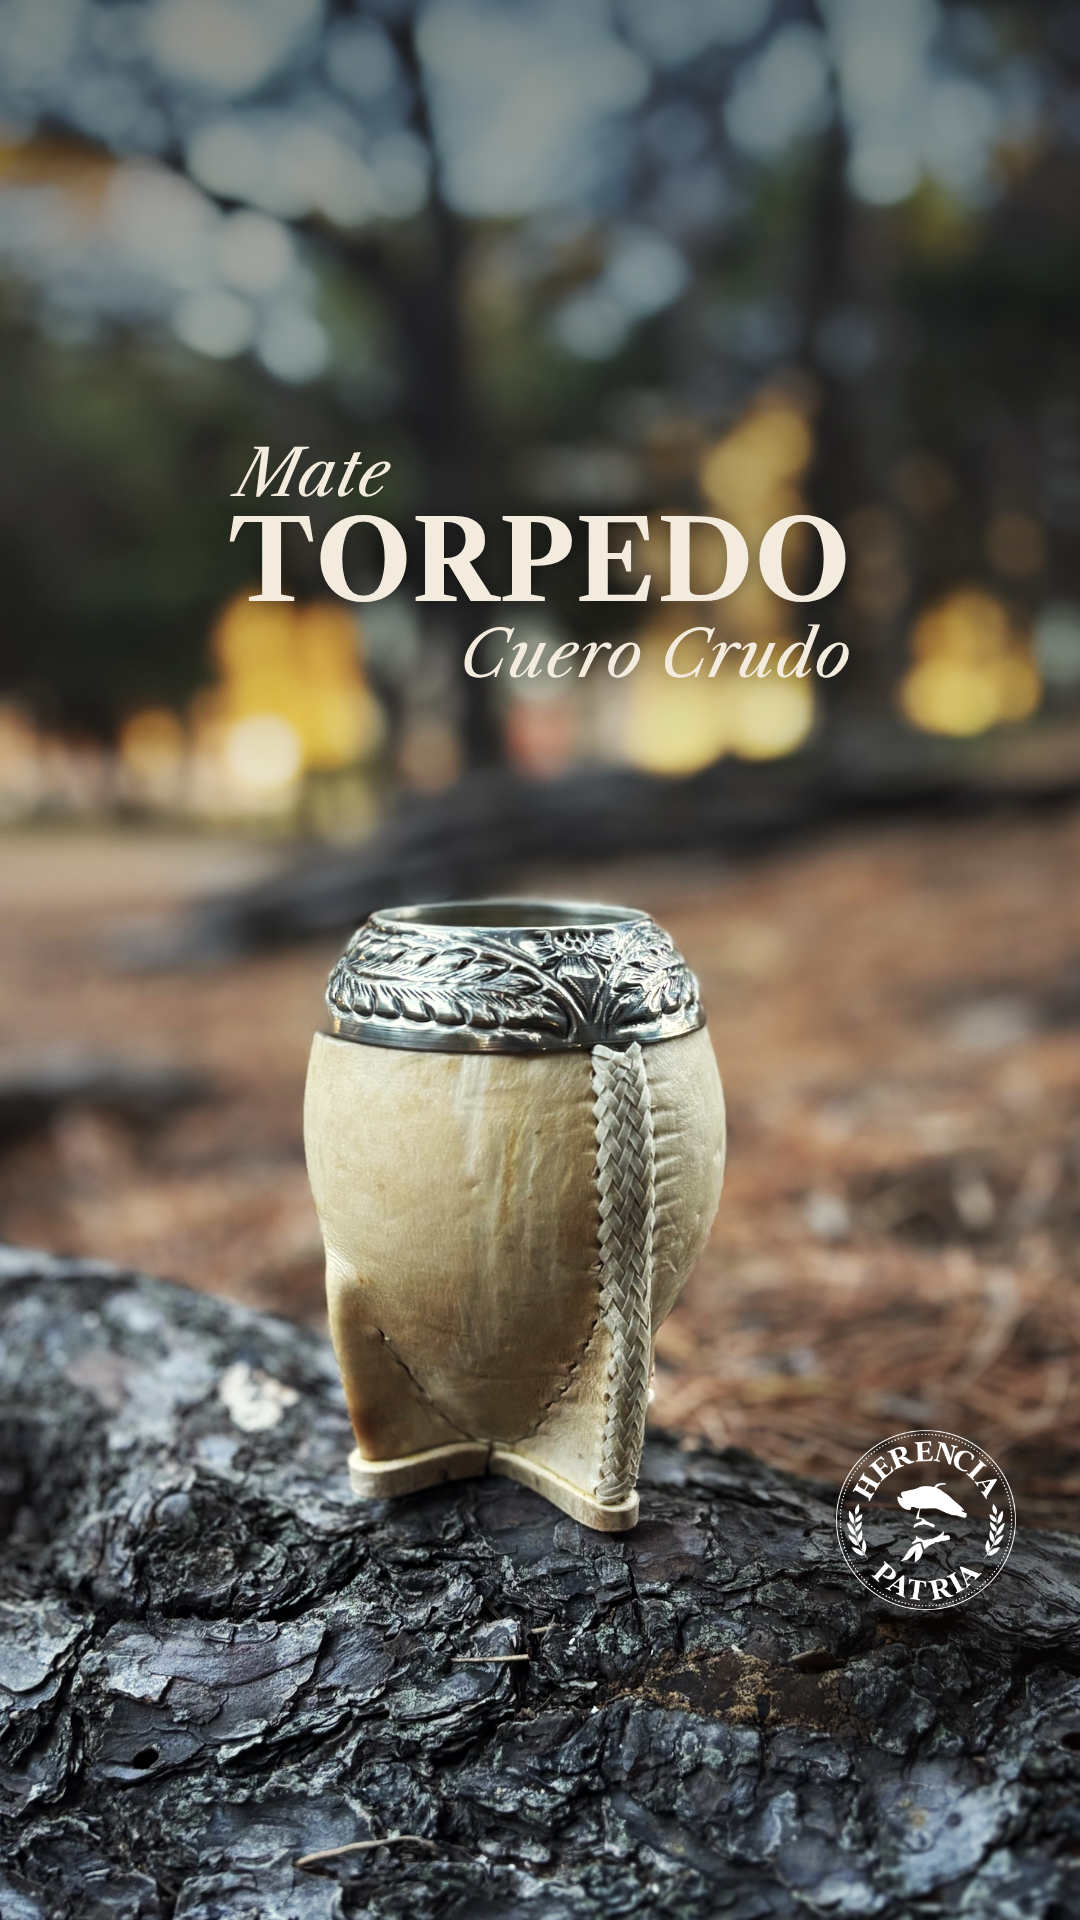
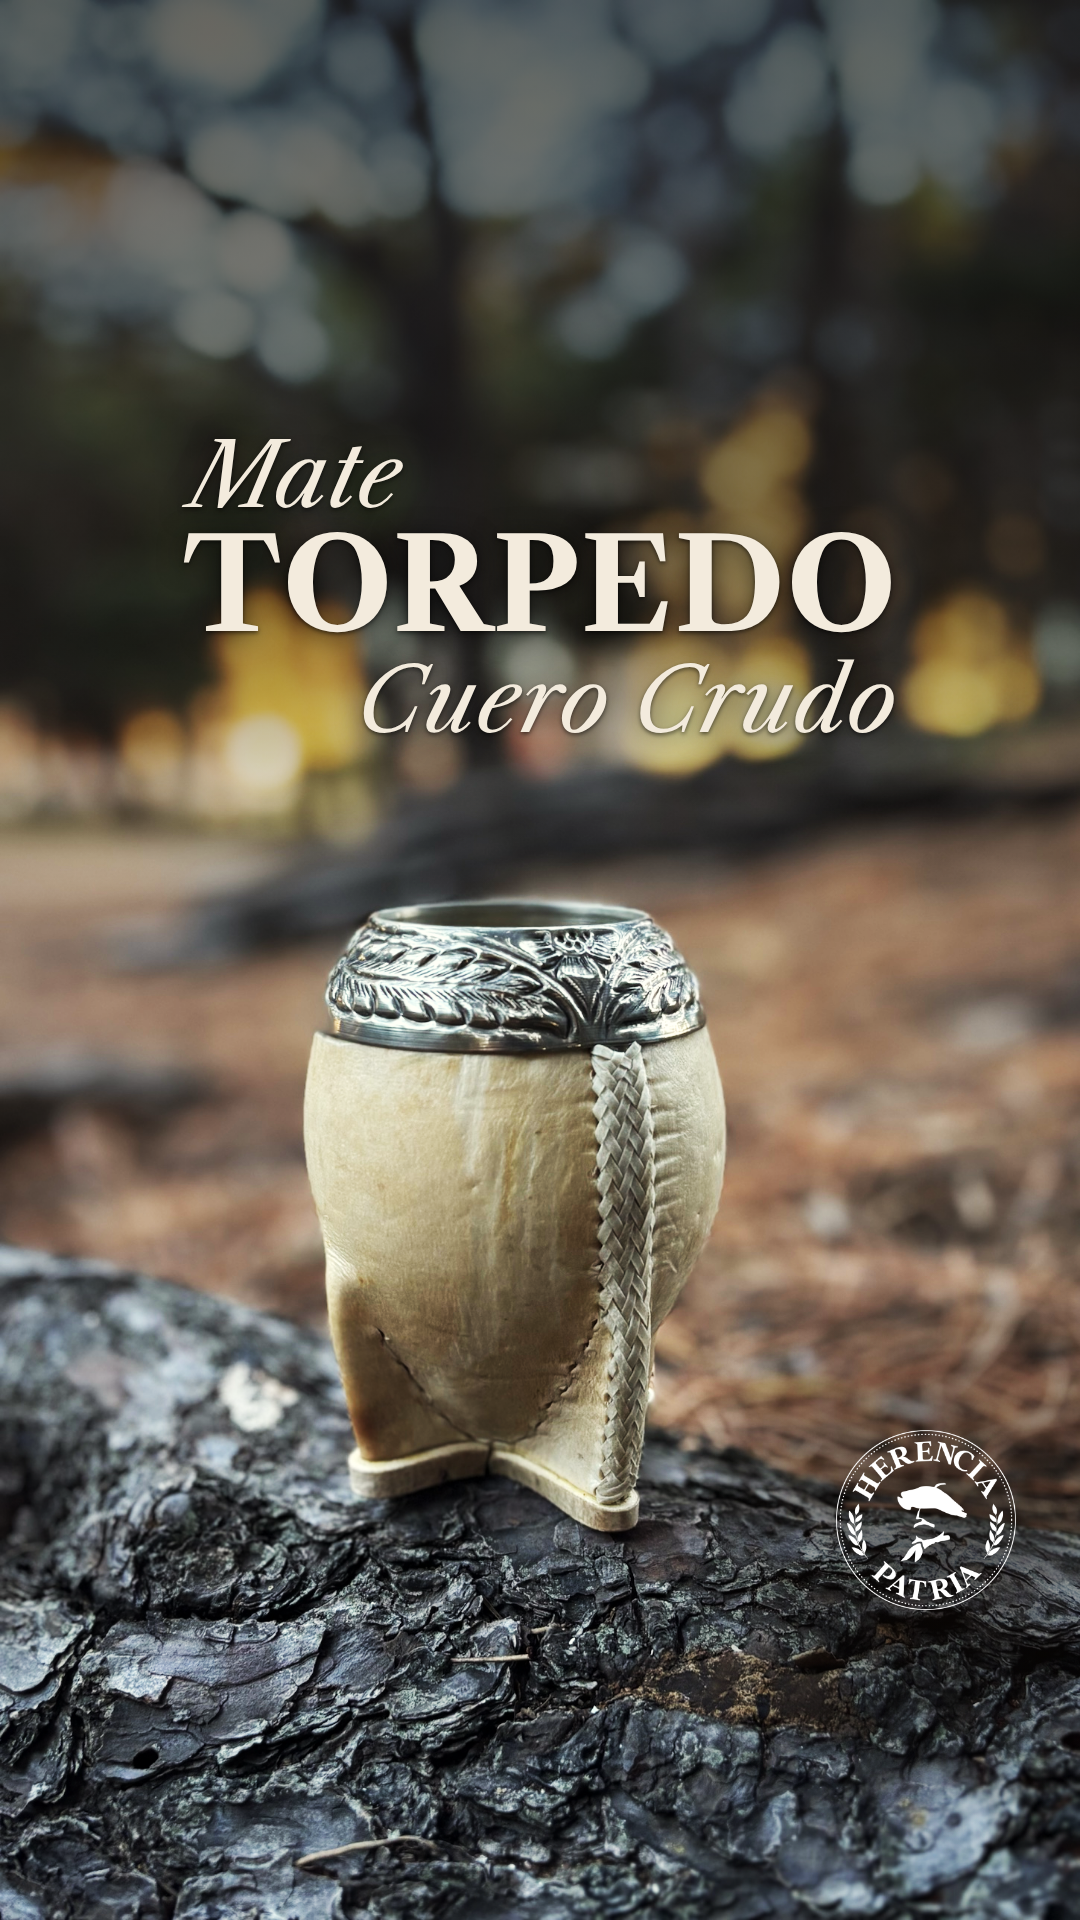
Covers: larger, more legible titles
Shared title scale 0.8 -> 0.92, italic lines larger, firmer top scrim
and a tighter text shadow so the italic reads over bright bokeh at
grid size. Camionero photo zoomed further to keep the virola clear.

Claude-Session: https://claude.ai/code/session_01W2uTfCUGokKMKtzDGAbmtd

Changed region(s): [[0.0, 0.0, 0.9778, 0.4062]]

diff --git a/src/HerenciaPatria/PortadaFeed.tsx b/src/HerenciaPatria/PortadaFeed.tsx
@@ -44,7 +44,7 @@ export const PortadaFeed: React.FC<{
     family === "caslon"
       ? { font: '"Libre Caslon Text", serif', italic: 400, bold: 700 }
       : { font: '"Playfair Display", serif', italic: 600, bold: 700 };
-  const shadow = "0 3px 22px rgba(0,0,0,0.45)";
+  const shadow = "0 2px 4px rgba(0,0,0,0.55), 0 4px 26px rgba(0,0,0,0.55)";
   return (
     <AbsoluteFill style={{ backgroundColor: "black", overflow: "hidden" }}>
       <Img
@@ -61,7 +61,7 @@ export const PortadaFeed: React.FC<{
       <AbsoluteFill
         style={{
           background:
-            "linear-gradient(to bottom, rgba(18,12,8,0.45) 0%, rgba(18,12,8,0.25) 30%, rgba(18,12,8,0) 46%)",
+            "linear-gradient(to bottom, rgba(18,12,8,0.62) 0%, rgba(18,12,8,0.5) 28%, rgba(18,12,8,0.18) 40%, rgba(18,12,8,0) 48%)",
         }}
       />
       <AbsoluteFill style={{ alignItems: "center", paddingTop: top }}>
@@ -78,7 +78,7 @@ export const PortadaFeed: React.FC<{
             style={{
               fontStyle: "italic",
               fontWeight: f.italic,
-              fontSize: 80 * titleScale,
+              fontSize: 96 * titleScale,
               lineHeight: 1.05,
               marginLeft: 8,
             }}
@@ -100,7 +100,7 @@ export const PortadaFeed: React.FC<{
               alignSelf: "flex-end",
               fontStyle: "italic",
               fontWeight: f.italic,
-              fontSize: 80 * titleScale,
+              fontSize: 96 * titleScale,
               lineHeight: 1.15,
             }}
           >

diff --git a/src/Root.tsx b/src/Root.tsx
@@ -11,7 +11,7 @@ const cta = "Diseñá el tuyo en nuestra tienda online";
 
 // Mismo tamaño y altura de título en todas las portadas de la serie. Arranca
 // más abajo que el ícono de Reels, que en la grilla va arriba a la derecha.
-const tituloPortada = { top: 440, titleScale: 0.8 };
+const tituloPortada = { top: 430, titleScale: 0.92 };
 
 export const RemotionRoot: React.FC = () => {
   return (
@@ -141,7 +141,7 @@ export const RemotionRoot: React.FC = () => {
           family: "caslon" as const,
           logoSide: "right" as const,
           ...tituloPortada,
-          zoom: 1.24,
+          zoom: 1.3,
           focusX: 40,
         }}
       />
